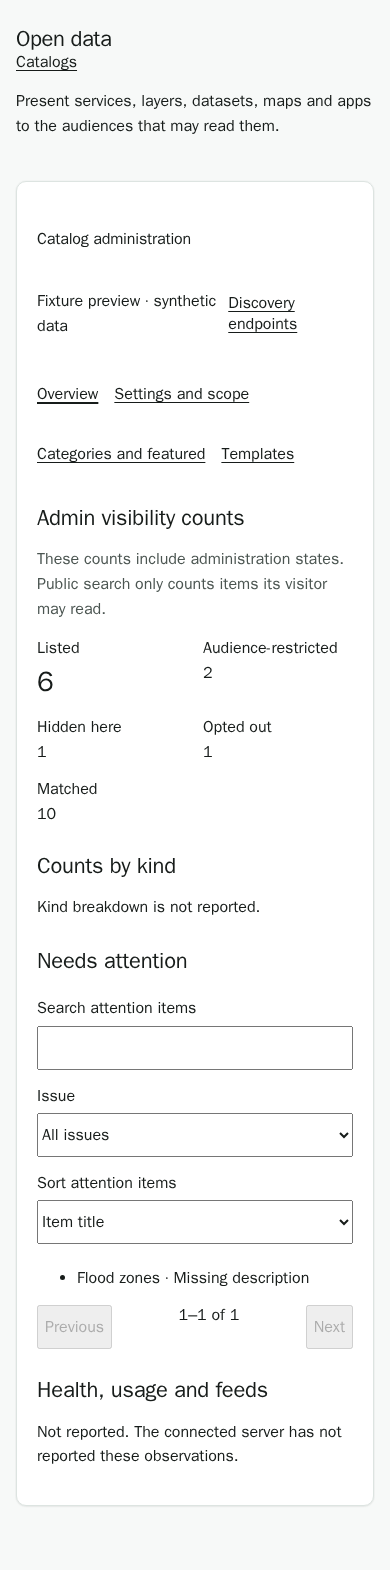
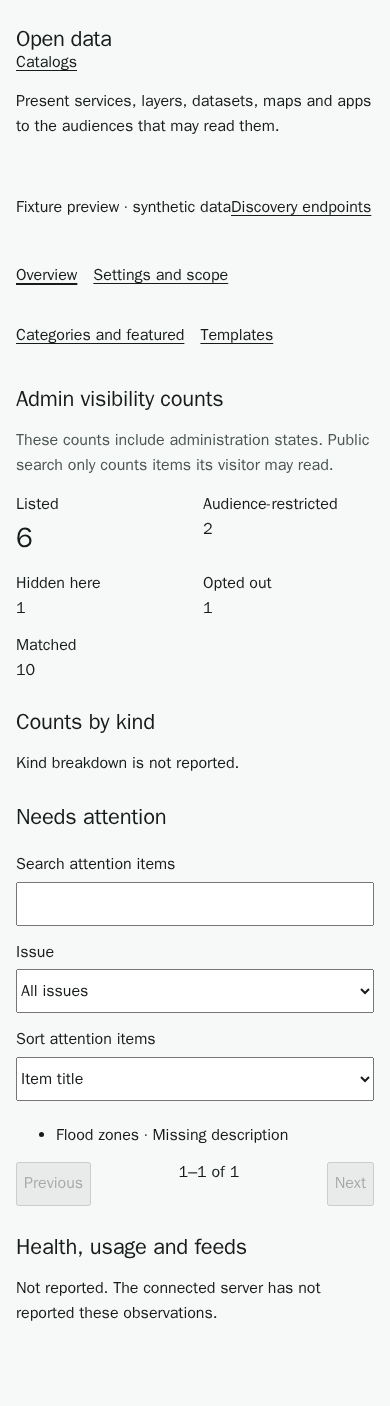
feat(console): compose catalog administration pages with quiet v4 sections

diff --git a/tests/Honua.Console.IntegrationTests/CatalogsDiscoveryPageRenderTests.cs b/tests/Honua.Console.IntegrationTests/CatalogsDiscoveryPageRenderTests.cs
@@ -243,7 +243,8 @@ public sealed class CatalogsDiscoveryPageRenderTests
         if (enabled)
         {
             Assert.Empty(page.FindAll(".console-overview-card"));
-            Assert.Equal(page.FindAll("[data-catalog-field-group]").Count + 1, page.FindAll(".console-panel").Count);
+            Assert.Empty(page.FindAll(".console-panel"));
+            Assert.Equal(page.FindAll("[data-catalog-field-group]").Count + 1, page.FindAll(".console-panel-heading h2").Count);
             CatalogAdminPreview.CaptureV4("catalog-entry-v4", page.Markup);
         }
 
